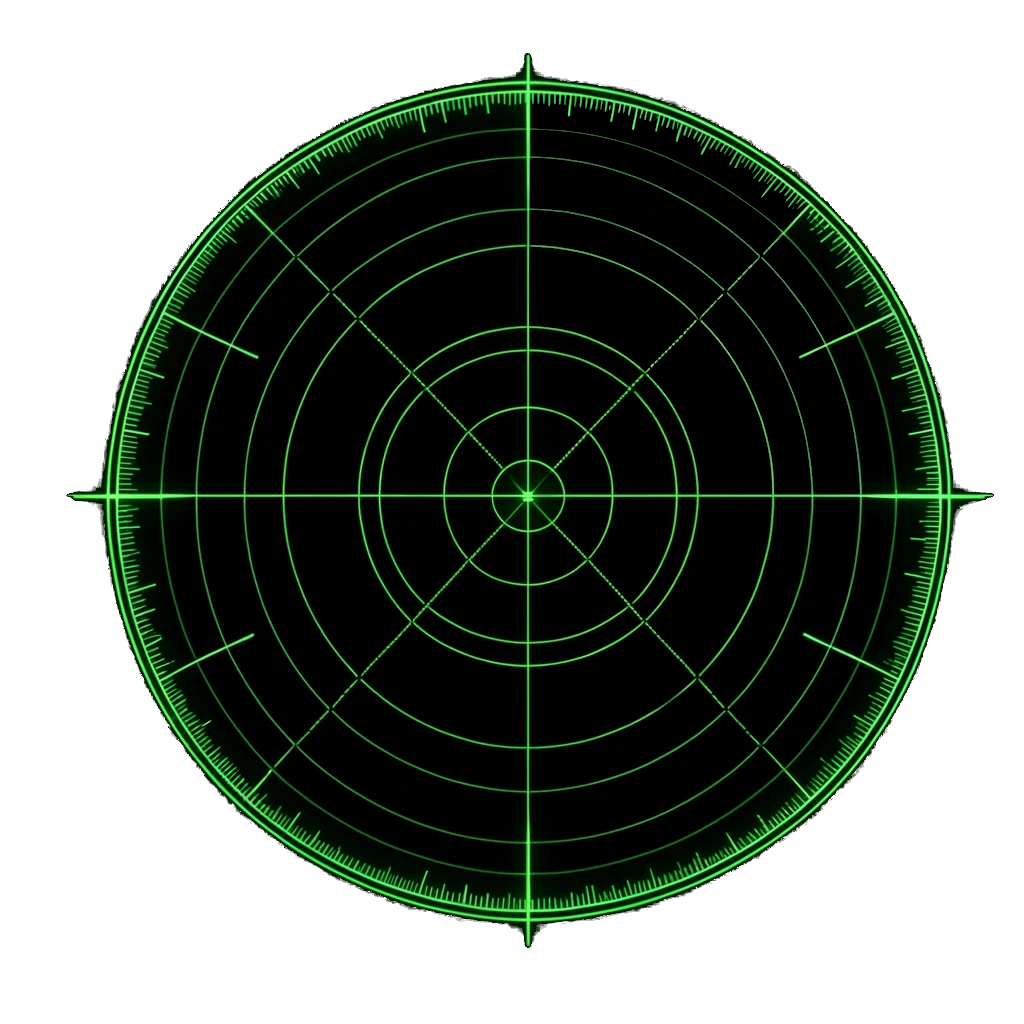
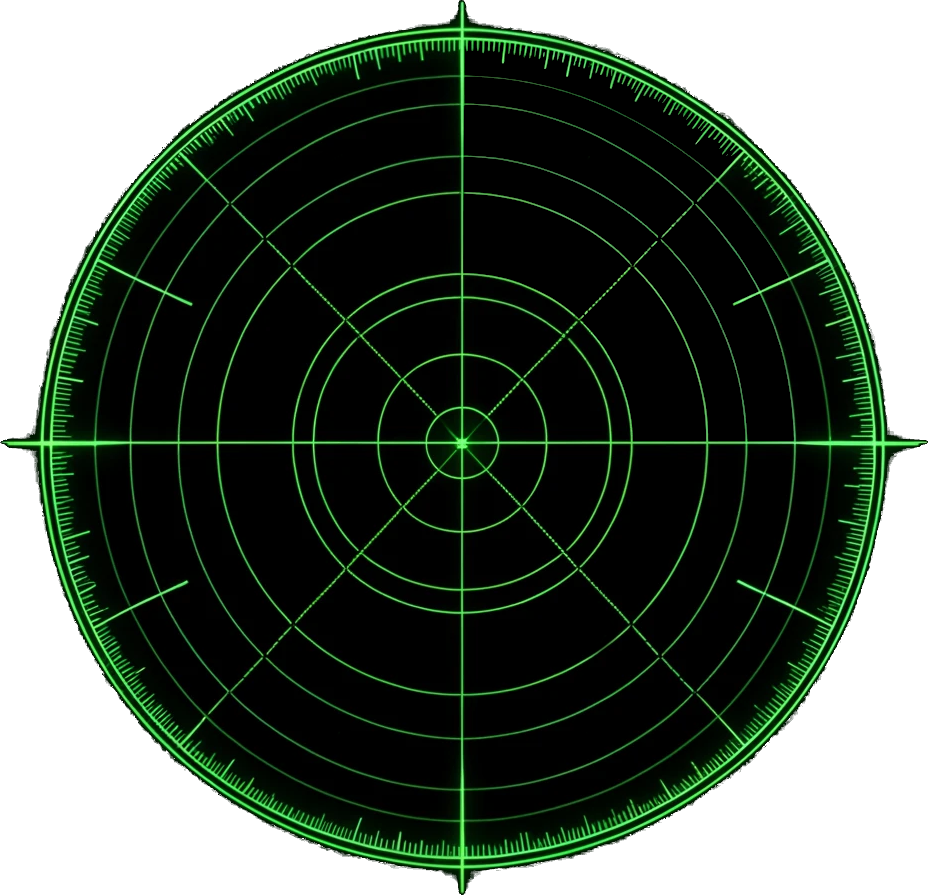
background sonar add

Changed region(s): [[0.0, 0.0, 1.0, 1.0], [0.3125, 0.2112, 0.3438, 0.2413]]

diff --git a/src/sonar.rs b/src/sonar.rs
@@ -23,15 +23,28 @@ pub struct Line {
 pub fn spawn_entities(
     mut commands: Commands,
     mut meshes: ResMut<Assets<Mesh>>,
+    asset_server: Res<AssetServer>,
     mut materials: ResMut<Assets<ColorMaterial>>,
     mut windows: Query<&mut Window, With<PrimaryWindow>>,
 ) {
     let window = windows.single_mut();
     let radius = window.resolution.height() / 2.0;
+    let diameter = radius * 2.0; // Diâmetro do círculo
+    let scale = diameter / 1024.0; //
+
+    let texture_handle = asset_server.load("../assets/radar.png");
+
+    commands.spawn(SpriteBundle {
+        texture: texture_handle,
+        transform: Transform::from_xyz(0.0, 0.0, -2.0).with_scale(Vec3::splat(1.25*scale)),
+        ..default()
+    });
+
+
     commands.spawn((
         MaterialMesh2dBundle {
             mesh: meshes.add(Circle { radius: radius }).into(),
-            material: materials.add(Color::BLACK),
+            material: materials.add(Color::NONE),
             transform: Transform::from_xyz(0.0, 0.0, -1.0),
             ..default()
         },

diff --git a/src/main.rs b/src/main.rs
@@ -9,6 +9,7 @@ fn main() {
         .add_plugins(DefaultPlugins.set(WindowPlugin {
             primary_window: Some(Window {
                 resolution: WindowResolution::new(1920., 1080.).with_scale_factor_override(1.0),
+                mode: WindowMode::Fullscreen,
                 ..default()
             }),
             ..default()
